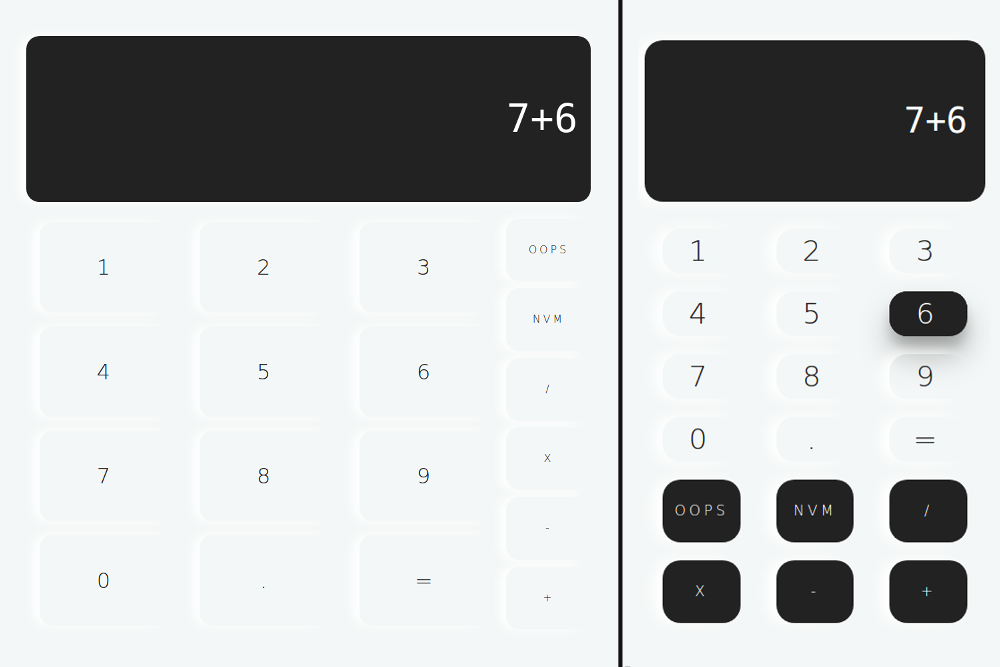
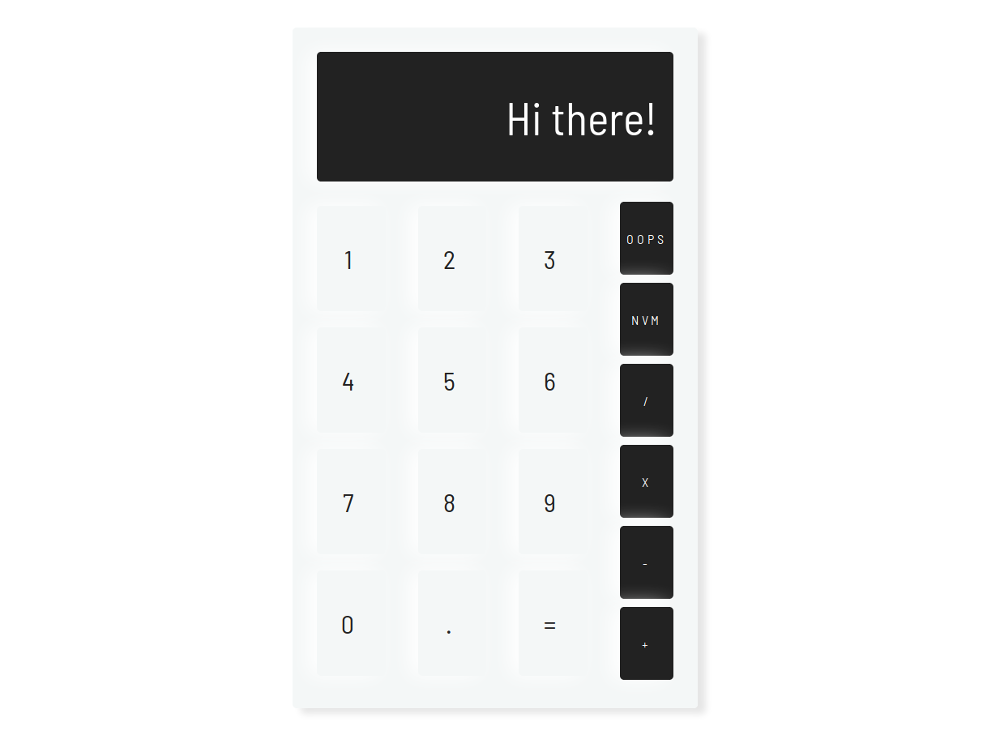
Updated screenshot.

diff --git a/README.md b/README.md
@@ -1,15 +1,11 @@
-# Minimalist Calculator
+# minimalist-calc: A simple responsive JavaScript calculator
 
 **See the whole thing working here: [vickylai.io/minimalist-calc](https://vickylai.io/minimalist-calc/)**
 
-A simple responsive JavaScript calculator. Equivalent capabilities to a very smart monkey doing Grade 6 homework.
+Equivalent capabilities to a very smart monkey doing Grade 6 homework.
 
 Created initially for [FreeCodeCamp](https://www.freecodecamp.com/hivickylai)'s Front-End Developer Certification Course. The first (not actively maintained) version is on [CodePen](https://codepen.io/hivickylai/full/VWPqjq/).
 
-## To do:
-
-* Regex to catch gibberish
-
 ## Screenshot
 
-![Responsive views](/img/screenshot.png)
+![Desktop view.](assets/img/screenshot.png)
